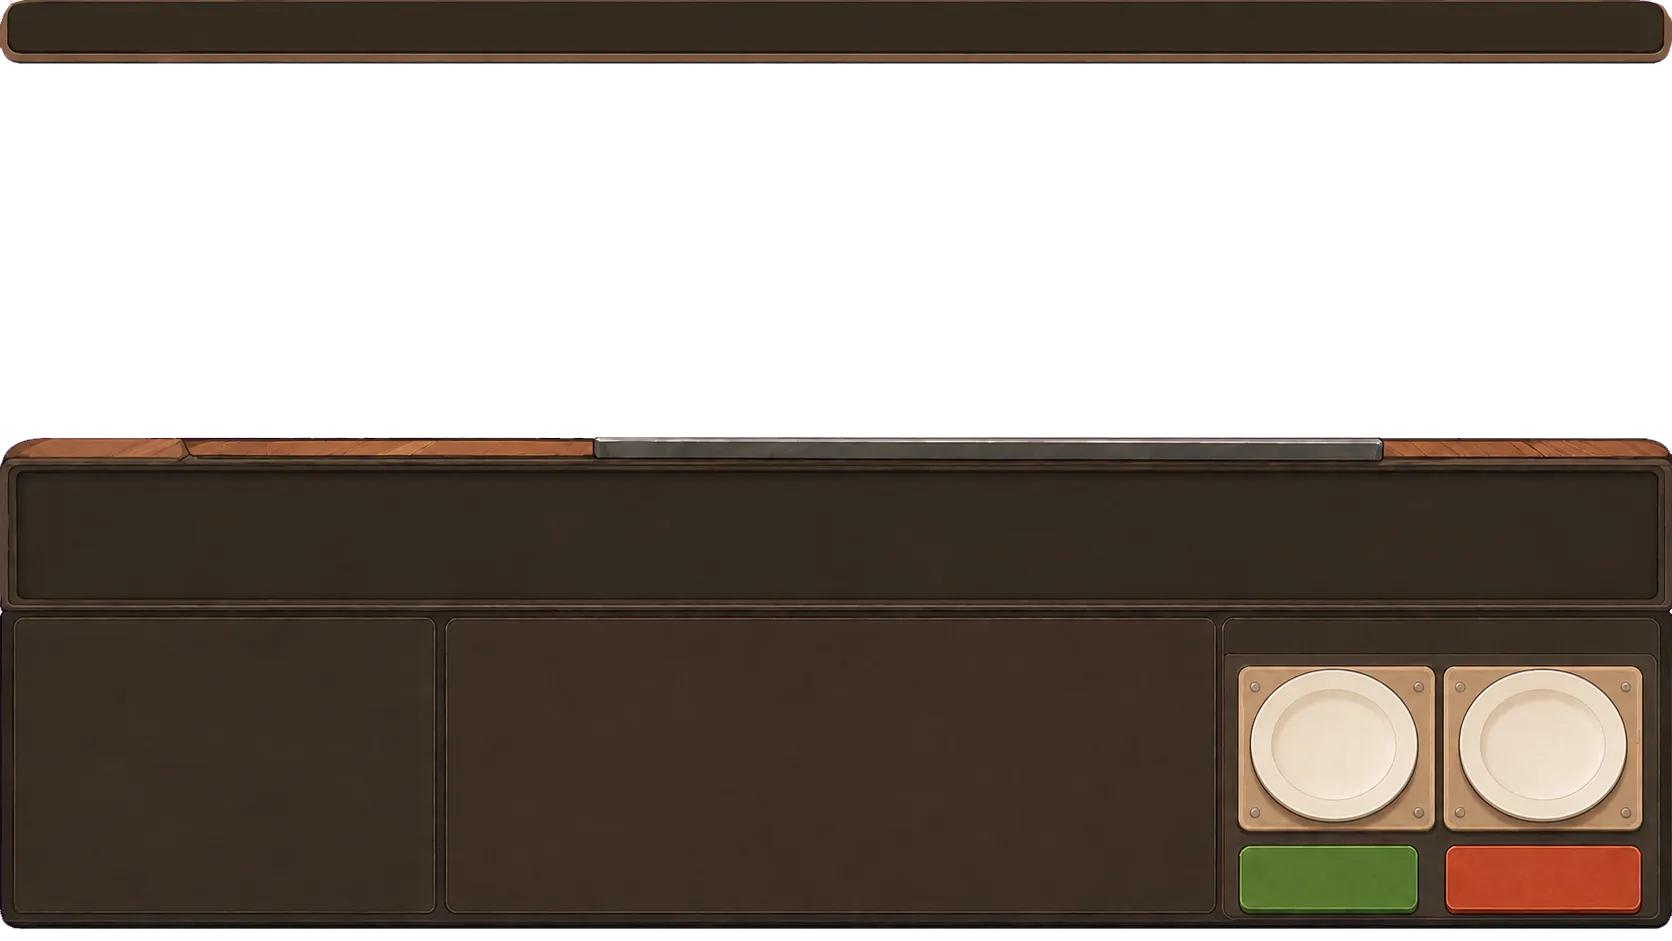
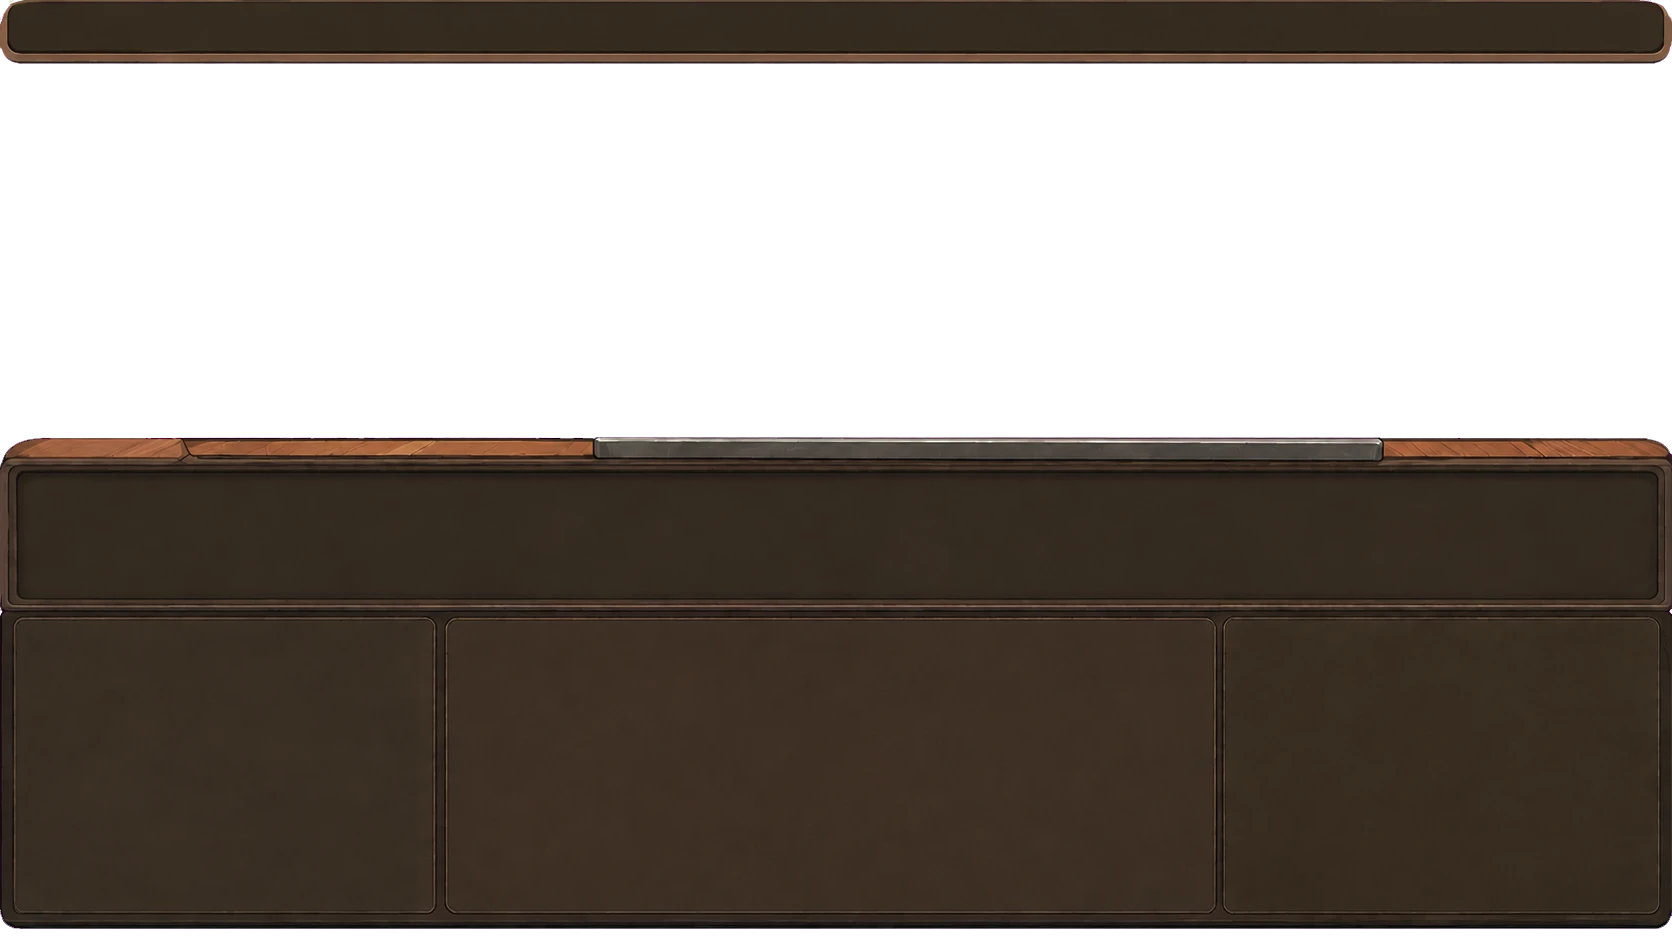
완성 트레이 ui 수정, 완성 트레이 한도 설정

Changed region(s): [[0.7153, 0.678, 0.9952, 0.9862]]

diff --git a/src/components/CookingMinigame.tsx b/src/components/CookingMinigame.tsx
@@ -3,6 +3,8 @@ import { useGame } from '../state/GameContext'
 import {
   collectGrillSlot,
   createIdleGrillSlots,
+  getCookProgress,
+  getCookResult,
   placeIngredient,
   resolveGrillSlot,
   type GrillSlot,
@@ -27,7 +29,7 @@ import { playPerfectTimingAlarm, playSfx } from '../audio/sfx'
 import { grillIngredients } from '../grill/grillIngredients'
 import GrillSlots from './GrillSlots'
 import { ActionTypes } from '../state/actions'
-import { getOrderFulfillment, groupPlatedIngredients, qualityByResult } from '../state/orderFulfillment'
+import { getOrderFulfillment, groupPlatedIngredients, isPlatedTrayFull, MAX_PLATED_ITEMS, qualityByResult } from '../state/orderFulfillment'
 import ingredientData from '../data/ingredients.json'
 import menuData from '../data/menus.json'
 import { INGREDIENT_FOOD_STYLE, MENU_FOOD_STYLE } from '../utils/foodIcons'
@@ -65,6 +67,8 @@ export default function CookingMinigame() {
     createIdleGrillSlots(getGrillSlotCount(state.upgrades)),
   )
   const slotsRef = useRef(slots)
+  const preparedIngredientsRef = useRef(state.preparedIngredients)
+  preparedIngredientsRef.current = state.preparedIngredients
   const [now, setNow] = useState(() => Date.now())
   const [selectedPreparedIds, setSelectedPreparedIds] = useState<string[]>([])
   const [selectedStockId, setSelectedStockId] = useState<string | null>(null)
@@ -89,10 +93,11 @@ export default function CookingMinigame() {
     const id = setInterval(() => {
       const t = Date.now()
       const resolvedSlots = slotsRef.current.map((slot) => resolveGrillSlot(slot, t))
+      const trayFull = isPlatedTrayFull(preparedIngredientsRef.current)
       const autoAssistTick = runAutoAssistTick(
         resolvedSlots,
         t,
-        autoCollectIntervalMs,
+        trayFull ? null : autoCollectIntervalMs,
         autoAssistTimerRef.current,
         typeof document === 'undefined' || document.visibilityState === 'visible',
       )
@@ -210,7 +215,19 @@ export default function CookingMinigame() {
   }
 
   const handleCollect = (slot: GrillSlot) => {
-    const result = collectGrillSlot(slotsRef.current, slot, Date.now())
+    const nowMs = Date.now()
+    const progress = getCookProgress(slot, nowMs)
+    const cookResult = slot.status === 'burnt' ? 'burnt' : getCookResult(progress)
+    // 완성 트레이가 가득 차면 서빙 가능 결과는 회수하지 않는다. 탄 재료는 치울 수 있다.
+    if (
+      cookResult !== 'burnt' &&
+      cookResult !== 'raw' &&
+      isPlatedTrayFull(state.preparedIngredients)
+    ) {
+      return
+    }
+
+    const result = collectGrillSlot(slotsRef.current, slot, nowMs)
     if (!result.collected) return
     clearSlotAlert(slot.id)
     if (result.collected.result !== 'burnt') playSfx('cooking_done')
@@ -394,9 +411,16 @@ export default function CookingMinigame() {
                 </li>
               )
             })}
-            <li className="plated-item plated-item--empty" aria-hidden>
-              <span className="plated-item-icon">🍽</span>
-            </li>
+            {Array.from(
+              { length: Math.max(0, MAX_PLATED_ITEMS - platedDisplayItems.length) },
+              (_, index) => (
+                <li key={`plated-empty-${index}`} aria-hidden>
+                  <div className="plated-item plated-item--empty">
+                    <span className="plated-item-icon">🍽</span>
+                  </div>
+                </li>
+              ),
+            )}
           </ul>
           <div className="plated-actions">
             <PlatedActionButton

diff --git a/src/styles/game.css b/src/styles/game.css
@@ -2081,11 +2081,11 @@ body:has(.phase-open) {
   display: grid;
   place-items: center;
   border-radius: 999px;
-  background-color: var(--cream);
+  background-color: transparent;
   background-repeat: no-repeat;
   font-size: 1.45rem;
   overflow: hidden;
-  box-shadow: 0 1px 3px rgba(0, 0, 0, 0.35);
+  filter: drop-shadow(0 1px 2px rgba(0, 0, 0, 0.45));
 }
 
 .grill-slot-food.has-food-image {
@@ -2377,17 +2377,30 @@ body:has(.phase-open) {
   scrollbar-gutter: auto;
 }
 
-/* 완성 프레임 아트에 그려진 접시 2개 자리에 맞춰 2열로, 세로 중앙(접시 위치)에 정렬 */
+/* 완성: 가로 5열 · 세로는 아래로 계속 쌓임 */
 .plated-grid {
-  grid-template-columns: repeat(2, 1fr);
-  align-content: center;
-  justify-content: center;
-  gap: 0.5rem 0.9rem;
+  grid-template-columns: repeat(5, minmax(0, 1fr));
+  grid-template-rows: none;
+  grid-auto-rows: min-content;
+  align-content: start;
+  justify-items: stretch;
+  gap: 0.3rem;
+  padding: 0 0.15rem 0.15rem;
+  overflow-x: hidden;
+  overflow-y: auto;
 }
 
-.ingredient-grid > li,
+.ingredient-grid > li {
+  display: flex;
+  width: 100%;
+  min-width: 0;
+}
+
 .plated-grid > li {
   display: flex;
+  width: 100%;
+  min-width: 0;
+  min-height: 0;
 }
 
 .ingredient-chip {
@@ -2414,15 +2427,18 @@ body:has(.phase-open) {
   flex-direction: column;
   align-items: center;
   justify-content: center;
-  gap: 0.1rem;
+  gap: 0.12rem;
   width: 100%;
-  padding: 0.3rem 0.15rem;
+  height: 100%;
+  aspect-ratio: 1;
+  padding: 0.25rem;
   border: 1px solid var(--border);
   border-radius: var(--radius-sm);
   background: var(--cream);
   font: inherit;
   appearance: none;
   cursor: pointer;
+  box-sizing: border-box;
 }
 
 .ingredient-chip:disabled {
@@ -2459,11 +2475,11 @@ body:has(.phase-open) {
 }
 
 .plated-item-icon {
-  width: 2.35rem;
-  height: 2.35rem;
+  width: 68%;
+  aspect-ratio: 1;
   display: grid;
   place-items: center;
-  font-size: 1.1rem;
+  font-size: 1.25rem;
   line-height: 1;
 }
 

diff --git a/src/state/orderFulfillment.test.ts b/src/state/orderFulfillment.test.ts
@@ -2,7 +2,13 @@ import { describe, expect, it } from 'vitest'
 import type { Customer, GameState, Order, PreparedIngredient } from '../types/game'
 import { createInitialState } from './initialState'
 import { gameReducer } from './gameReducer'
-import { getOrderFulfillment, serveOrder } from './orderFulfillment'
+import {
+  collectPreparedIngredient,
+  getOrderFulfillment,
+  isPlatedTrayFull,
+  MAX_PLATED_ITEMS,
+  serveOrder,
+} from './orderFulfillment'
 
 const customer: Customer = {
   id: 'customer-1',
@@ -140,5 +146,27 @@ describe('multi-item order fulfillment', () => {
     expect(ticked.customers.map((candidate) => candidate.id)).toEqual([nextCustomer.id])
     expect(ticked.orders).toEqual([nextOrder])
     expect(ticked.dailyLeft).toBe(1)
+  })
+})
+
+describe('plated tray capacity', () => {
+  it(`rejects collecting when ${MAX_PLATED_ITEMS} plated items are already ready`, () => {
+    const full = {
+      ...openState(),
+      preparedIngredients: Array.from({ length: MAX_PLATED_ITEMS }, (_, index) =>
+        prepared(`ready-${index}`, 'sausage'),
+      ),
+      nextPreparedIngredientId: MAX_PLATED_ITEMS + 1,
+    }
+
+    expect(isPlatedTrayFull(full.preparedIngredients)).toBe(true)
+
+    const next = collectPreparedIngredient(full, {
+      ingredientId: 'sausage',
+      cookResult: 'perfect',
+    })
+
+    expect(next).toBe(full)
+    expect(next.preparedIngredients).toHaveLength(MAX_PLATED_ITEMS)
   })
 })

diff --git a/src/state/orderFulfillment.ts b/src/state/orderFulfillment.ts
@@ -26,6 +26,17 @@ export const qualityByResult: Record<PreparedCookResult, PreparedQuality> = {
   perfect: 3,
 }
 
+/** 완성 트레이 최대 표시 칸 수 */
+export const MAX_PLATED_ITEMS = 10
+
+export function getPlatedDisplayCount(preparedIngredients: PreparedIngredient[]): number {
+  return groupPlatedIngredients(preparedIngredients).length
+}
+
+export function isPlatedTrayFull(preparedIngredients: PreparedIngredient[]): boolean {
+  return getPlatedDisplayCount(preparedIngredients) >= MAX_PLATED_ITEMS
+}
+
 /**
  * 유효한 조리 결과만 준비대에 넣는다. 서빙은 별도의 SERVE_ORDER 액션으로만 수행한다.
  */
@@ -34,6 +45,7 @@ export function collectPreparedIngredient(
   collected: CollectedIngredientInput,
 ): GameState {
   if (!isServableResult(collected.cookResult)) return state
+  if (isPlatedTrayFull(state.preparedIngredients)) return state
 
   const prepared: PreparedIngredient = {
     id: `prepared-${state.nextPreparedIngredientId}`,
